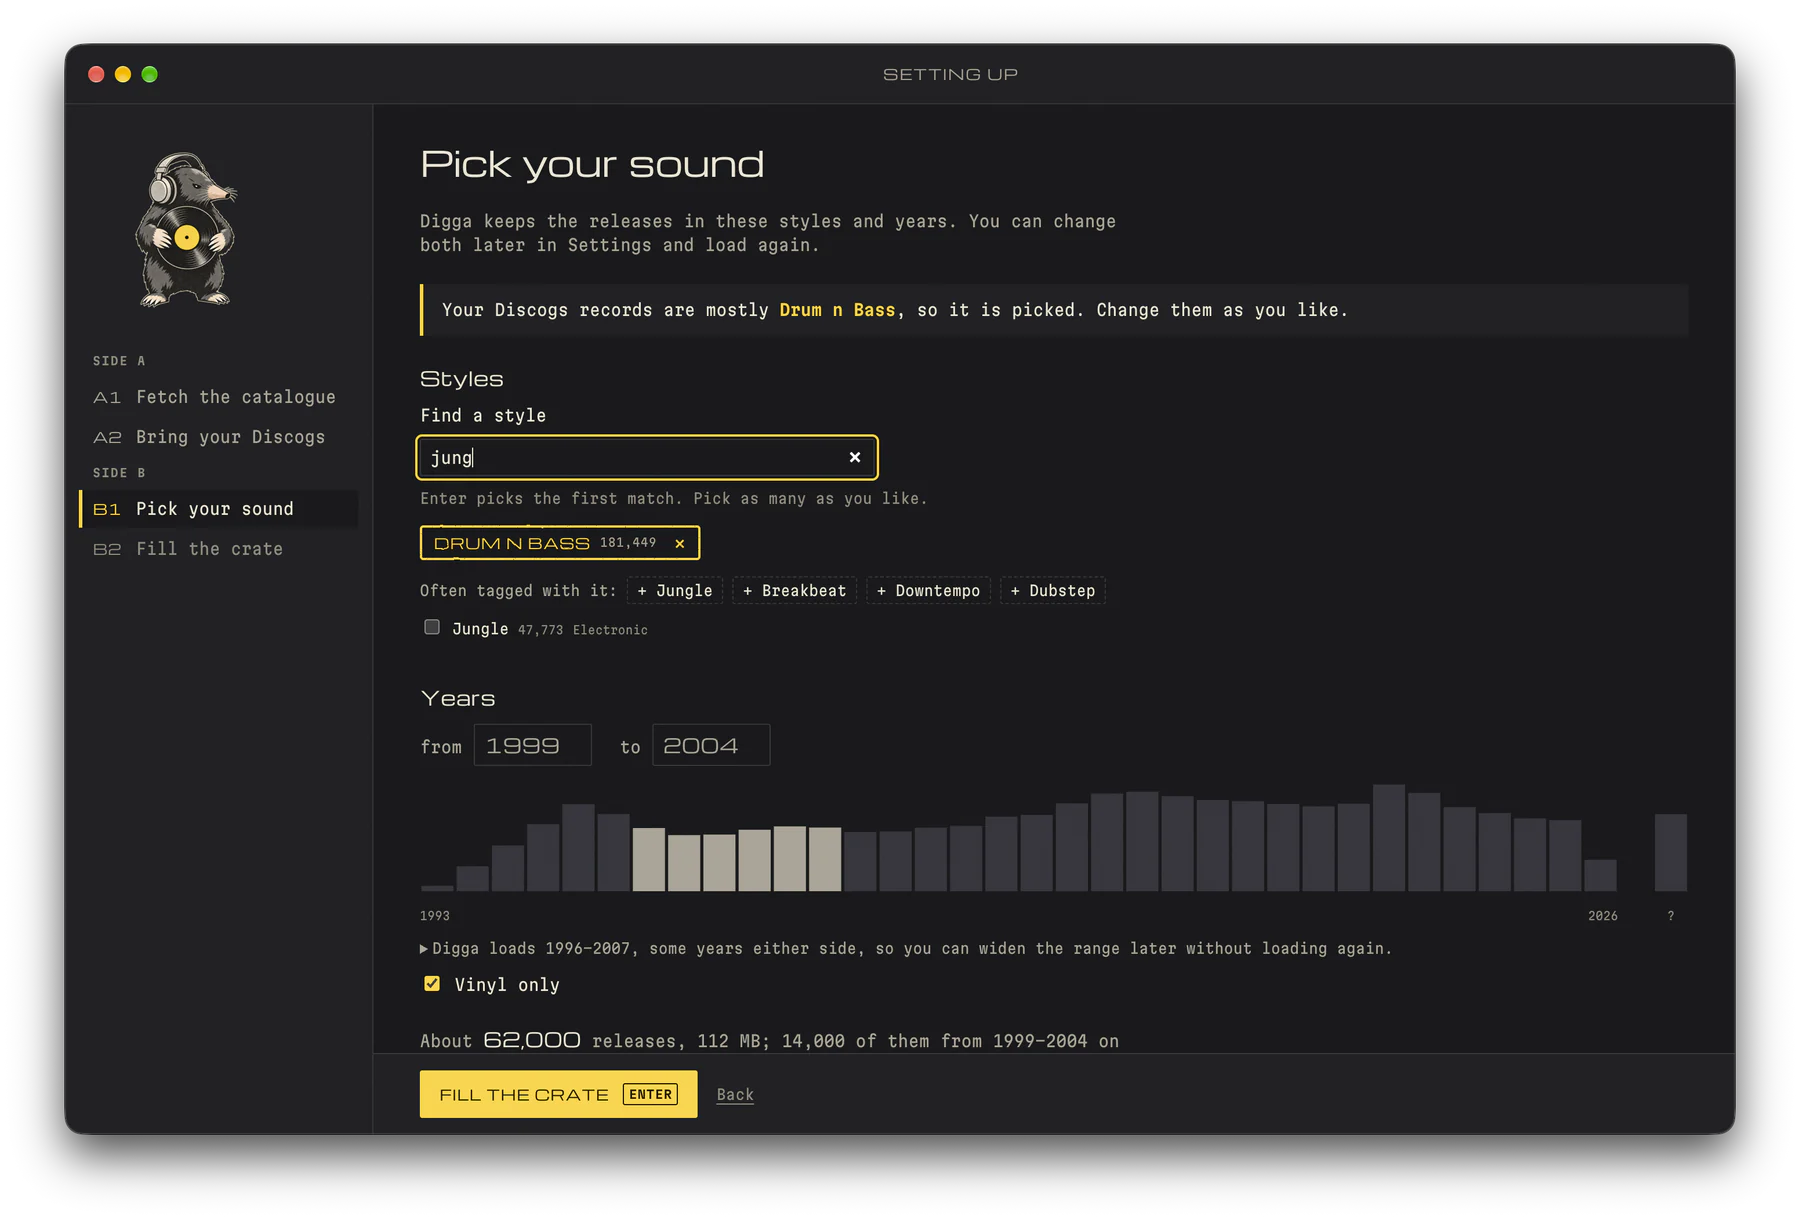
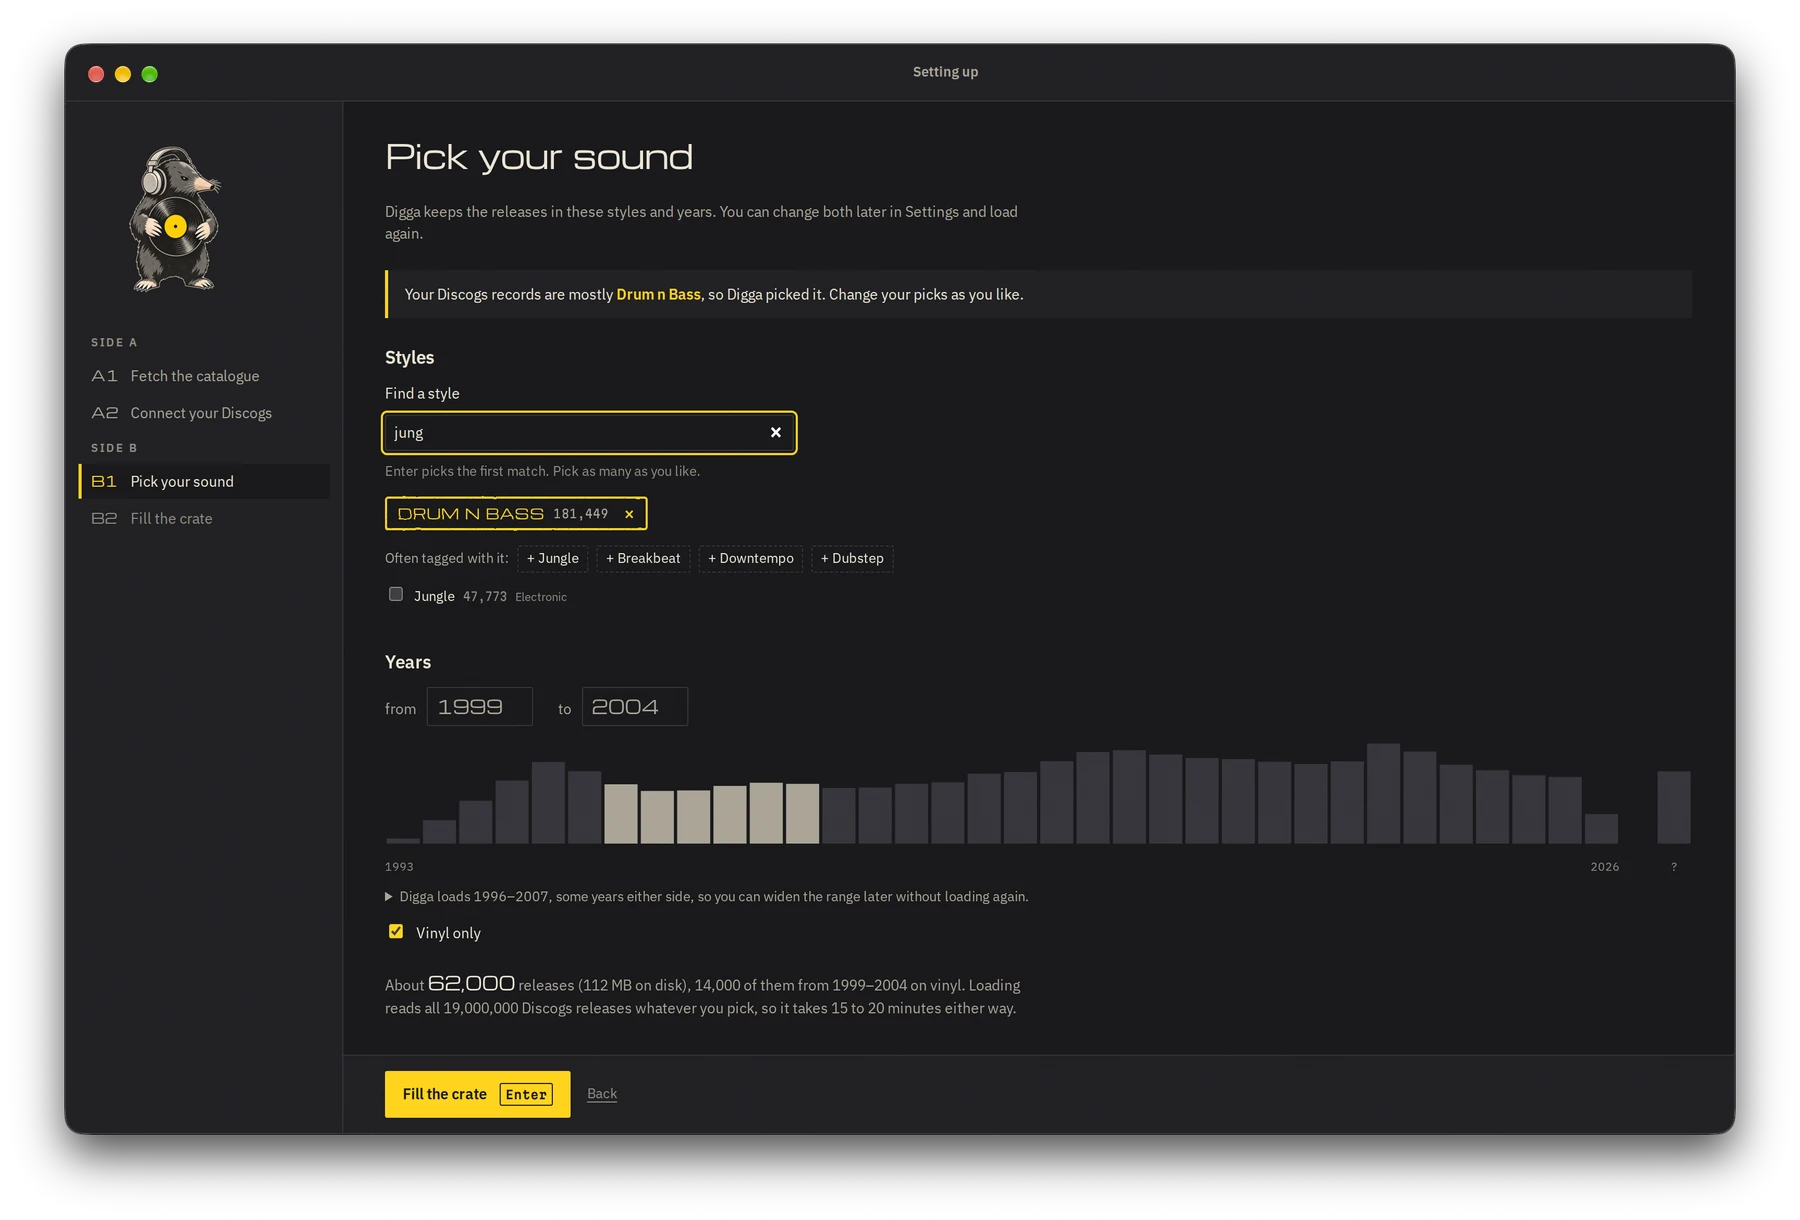
Update the README screenshots to the new look

diff --git a/README.md b/README.md
@@ -57,7 +57,7 @@ you imported from Discogs. Filter and sort the shelves, add notes, change a verd
 to snoozed records for another listen. The Tracks shelf lists every track you marked grail or
 keep, each with its own note.
 
-![Twelves sorted by artist: the shelves with their counts in a sidebar, and records with their stamps: wants with their prices, maybes, records from the Discogs wantlist, and three Rascal & Klone twelves from the collection](docs/assets/screenshots/twelves.webp)
+![Twelves sorted by artist: the shelves with their counts in a sidebar, and records with their stamps: wants with their prices, maybes not yet on the Discogs Maybe list, records from the Discogs wantlist, and Rascal & Klone twelves from the collection](docs/assets/screenshots/twelves.webp)
 
 Once your Discogs account is connected, `A` and `C` also add the record to your Discogs wantlist,
 with your note and the tracks you marked as the want's note. Digga still remembers which wants are
@@ -196,7 +196,7 @@ A new library starts with the setup. It takes about 20 minutes, mostly waiting:
 
 ![The setup's Pick your sound step beside its four steps: Drum n Bass picked from the Discogs collection and wantlist, a style search, and the years over a histogram of their releases](docs/assets/screenshots/setup-sound.webp)
 
-![The setup's Fill the crate step: the download and the load, the releases kept so far and the records to dig, the years filling in, the record just pulled, and Start digging while the load runs](docs/assets/screenshots/setup-crate.webp)
+![The setup's Fill the crate step: the load's progress, the releases kept so far and the records to dig, the years filling in, the record just pulled, and Start digging while the load runs](docs/assets/screenshots/setup-crate.webp)
 
 There is no practice round: Digga saves your verdicts from the first one.
 
